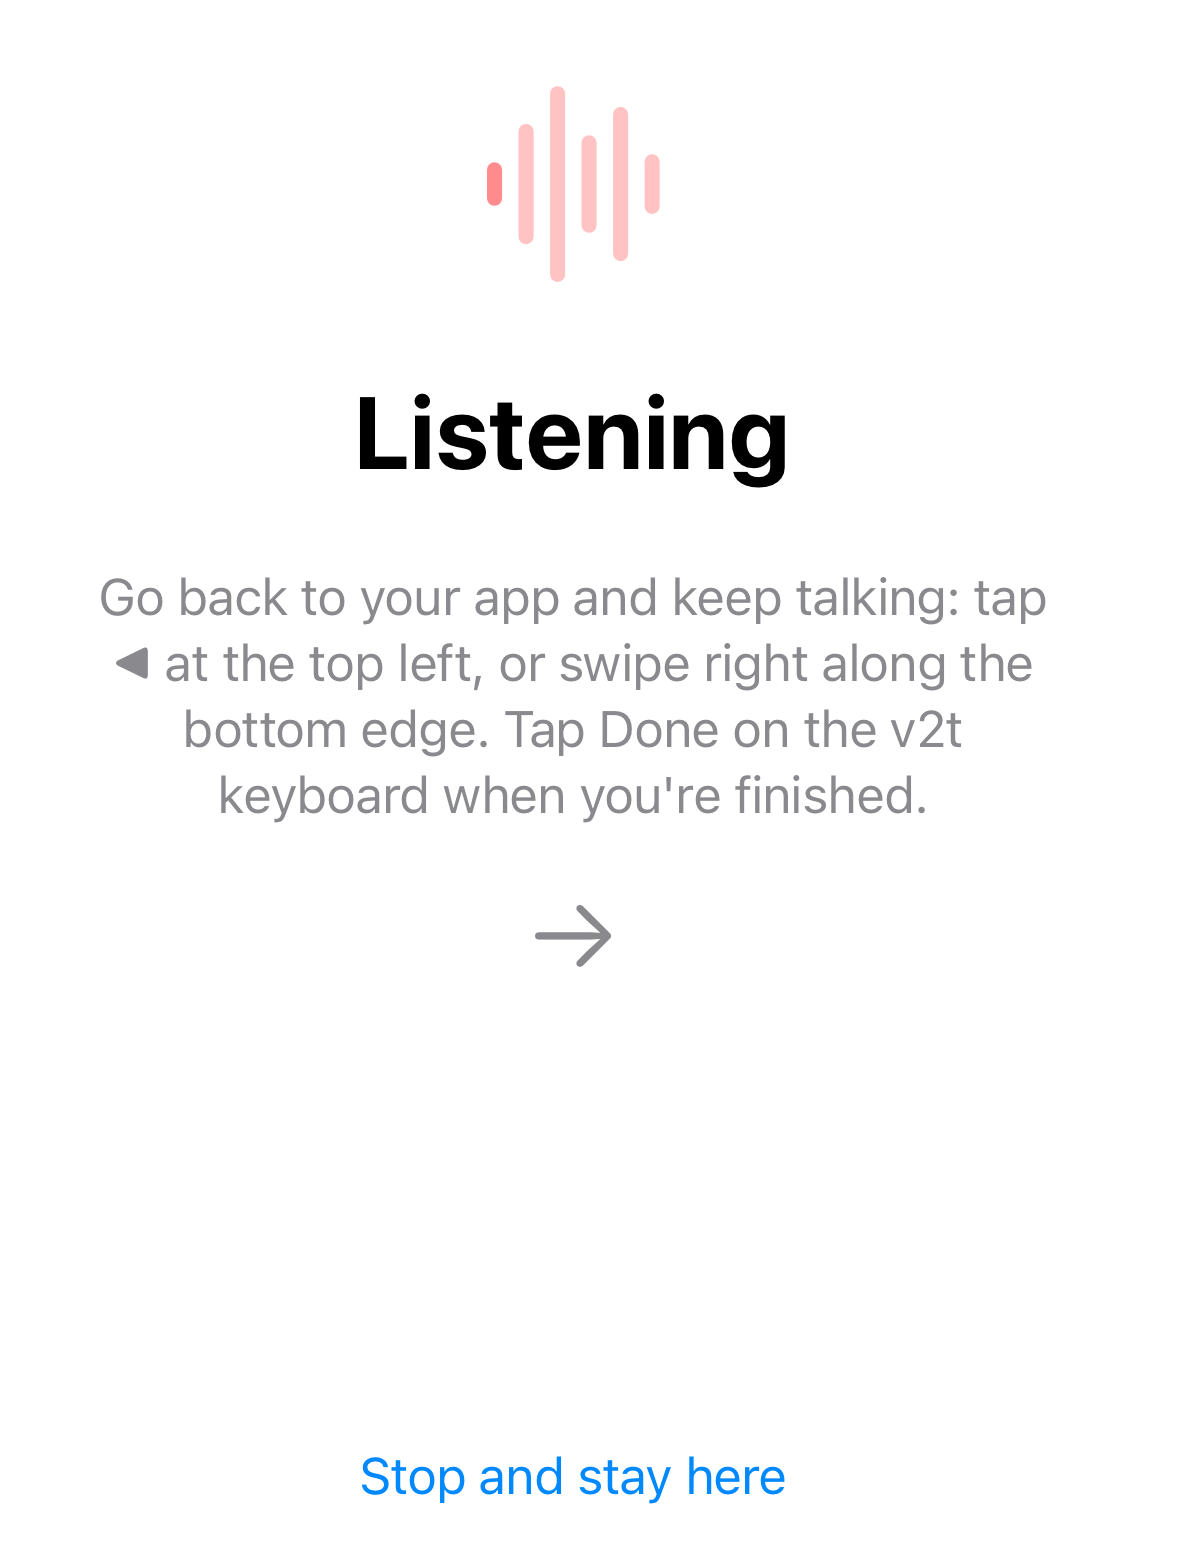
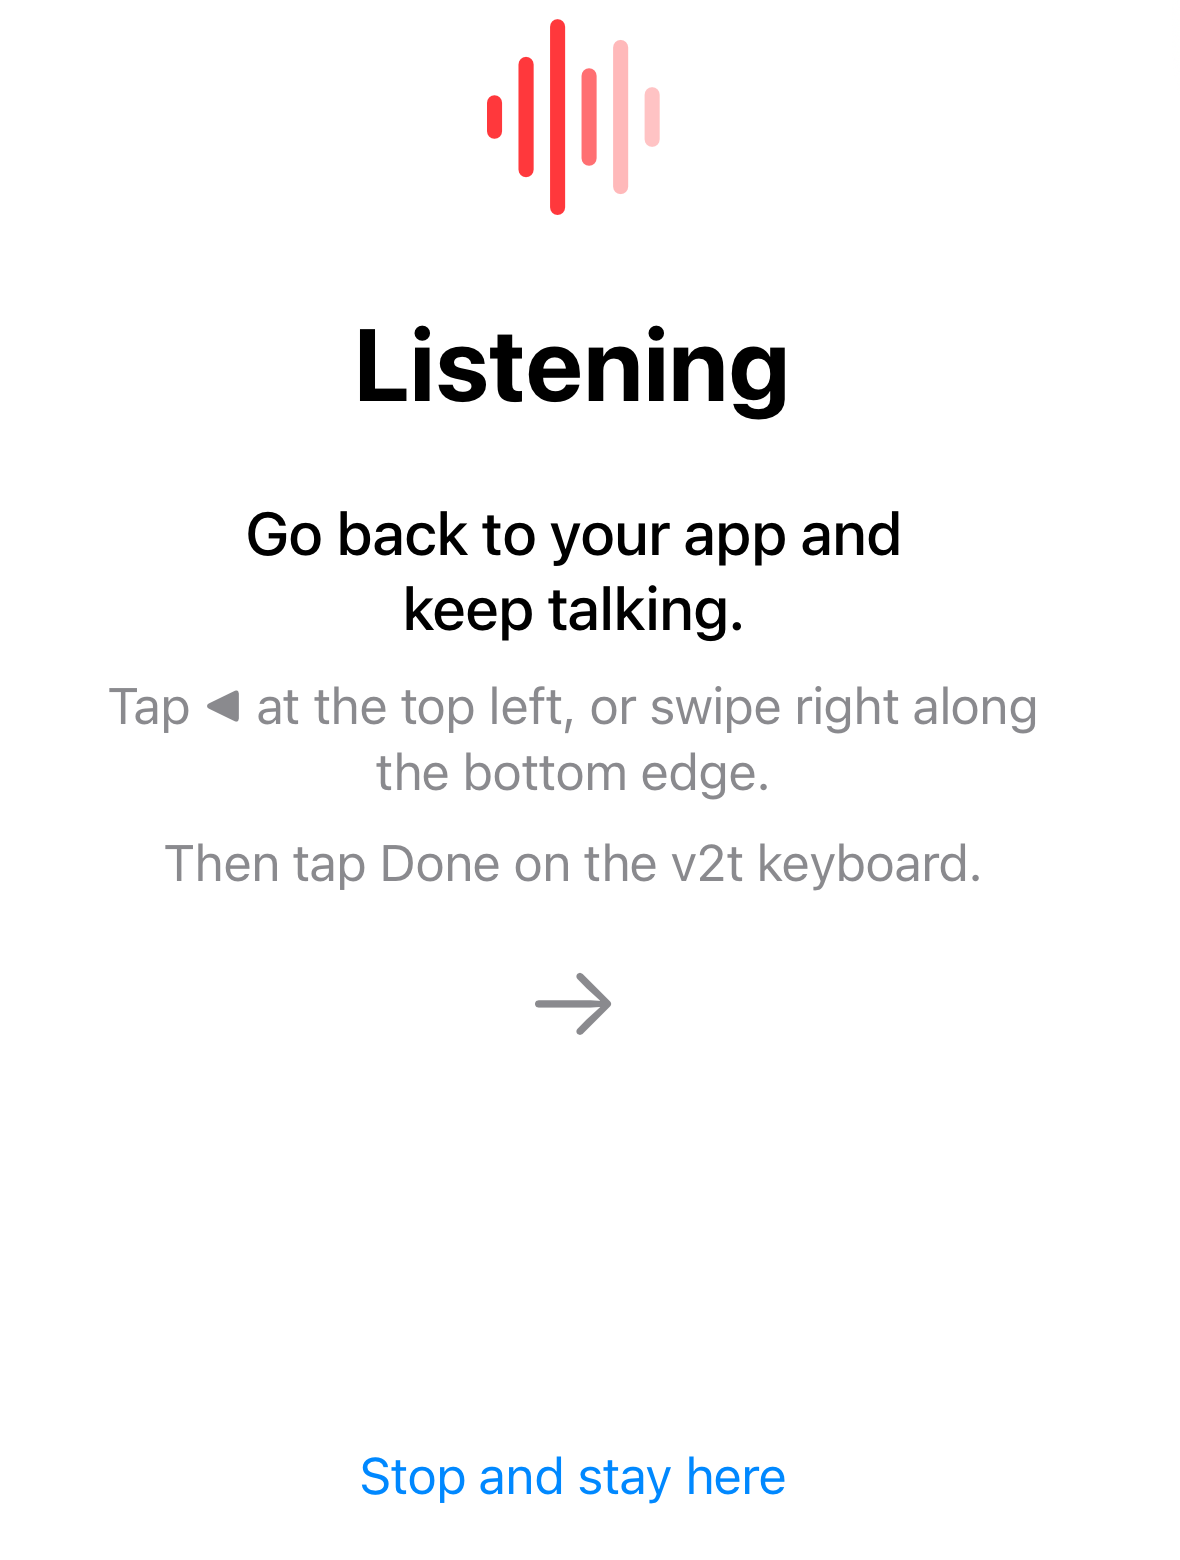
fix(ios): the handoff screen's instructions as three short lines
Luis's review: the one paragraph wrapped with the back triangle alone at a
line break. Now a headline line, then how to go back (the triangle held to
its words with non-breaking spaces), then Done. The guide's screenshot is
refreshed.

diff --git a/ios/App/V2TApp.swift b/ios/App/V2TApp.swift
@@ -247,10 +247,17 @@ struct KeyboardHandoffView: View {
         .font(.system(size: 64)).foregroundStyle(.red).symbolEffect(.variableColor, isActive: dictation.state == .listening)
       Text(dictation.state == .listening ? "Listening" : "Mic is ready").font(.largeTitle.bold())
       if let mic = dictation.microphone { MicrophoneLabel(mic: mic) }
-      Text(dictation.state == .listening
-        ? "Go back to your app and keep talking: tap ◀ at the top left, or swipe right along the bottom edge. Tap Done on the v2t keyboard when you're finished."
-        : "Go back to your app: tap ◀ at the top left, or swipe right along the bottom edge. The mic on the v2t keyboard now records without coming here.")
-        .multilineTextAlignment(.center).foregroundStyle(.secondary).padding(.horizontal, 32)
+      // three short lines rather than one paragraph, and ◀ held to its words, so no line starts or ends on it
+      VStack(spacing: 10) {
+        Text(dictation.state == .listening ? "Go back to your app and keep talking." : "Go back to your app.")
+          .font(.title3.weight(.medium))
+        Group {
+          Text("Tap\u{00A0}◀\u{00A0}at the top left, or swipe right along the bottom edge.")
+          Text(dictation.state == .listening ? "Then tap Done on the v2t keyboard." : "The keyboard's mic now records without coming here.")
+        }
+        .foregroundStyle(.secondary)
+      }
+      .multilineTextAlignment(.center).padding(.horizontal, 32)
       Image(systemName: "arrow.right").font(.title).foregroundStyle(.secondary)
       Spacer()
       Button(dictation.state == .listening ? "Stop and stay here" : "Close") {
